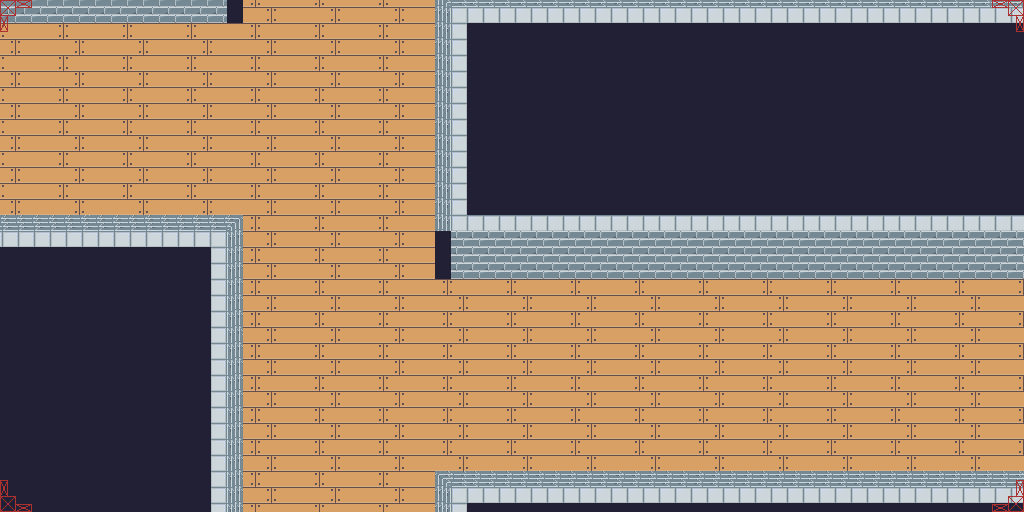
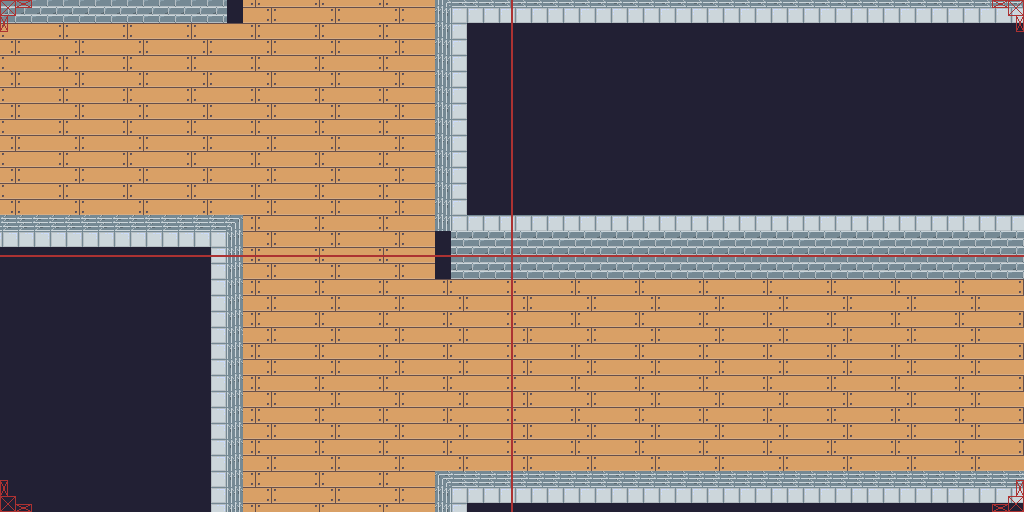
Fixed canvas mapping of player and background . Added Level 2 map.

diff --git a/The-Elm-Scrolls/index.html b/The-Elm-Scrolls/index.html
@@ -7215,7 +7215,7 @@ var $elm$core$Dict$RBEmpty_elm_builtin = {$: 'RBEmpty_elm_builtin'};
 var $elm$core$Dict$empty = $elm$core$Dict$RBEmpty_elm_builtin;
 var $Zinggi$elm_game_resources$Game$Resources$init = $Zinggi$elm_game_resources$Game$Resources$R($elm$core$Dict$empty);
 var $author$project$Game$Idle = {$: 'Idle'};
-var $author$project$Game$initPlayer = {dir: $author$project$Game$Idle, vx: 0, vy: 0, x: 0, y: 0};
+var $author$project$Game$initPlayer = {dir: $author$project$Game$Idle, vx: 0, vy: 0, x: 53, y: 9};
 var $Zinggi$elm_game_resources$Game$Resources$LoadedTexture = F2(
 	function (a, b) {
 		return {$: 'LoadedTexture', a: a, b: b};
@@ -7292,13 +7292,13 @@ var $Zinggi$elm_game_resources$Game$Resources$loadTextures = function (urls) {
 };
 var $elm$core$Platform$Cmd$map = _Platform_map;
 var $author$project$Game$texturesList = _List_fromArray(
-	['assets/playerIdle.png', 'assets/playerRight.png', 'assets/playerLeft.png', 'assets/playerUp.png', 'assets/playerDown.png', 'assets/sceneTest1024_512.png']);
+	['assets/player/playerIdle.png', 'assets/player/playerRight.png', 'assets/player/playerLeft.png', 'assets/player/playerUp.png', 'assets/player/playerDown.png', 'assets/sceneTest1024_512.png', 'assets/level/level_2.png']);
 var $author$project$Game$init = function (navKey) {
 	return _Utils_Tuple2(
 		{
 			camera: A2(
 				$Zinggi$elm_2d_game$Game$TwoD$Camera$fixedArea,
-				16 * 8,
+				32 * 16,
 				_Utils_Tuple2(0, 0)),
 			keys: _List_Nil,
 			navKey: navKey,
@@ -10073,9 +10073,9 @@ var $author$project$Game$renderBackground = function (resources) {
 		[
 			$Zinggi$elm_2d_game$Game$TwoD$Render$spriteZ(
 			{
-				position: _Utils_Tuple3(-1, -1, -0.9),
-				size: _Utils_Tuple2(16, 8),
-				texture: A2($Zinggi$elm_game_resources$Game$Resources$getTexture, 'assets/sceneTest1024_512.png', resources)
+				position: _Utils_Tuple3(0, 0, -0.9),
+				size: _Utils_Tuple2(128, 128),
+				texture: A2($Zinggi$elm_game_resources$Game$Resources$getTexture, 'assets/level/level_2.png', resources)
 			})
 		]);
 };
@@ -10135,19 +10135,19 @@ var $author$project$Game$renderPlayer = F2(
 				pivot: _Utils_Tuple2(0, 0),
 				position: _Utils_Tuple3(x, y, 0),
 				rotation: 0,
-				size: _Utils_Tuple2(0.5, 1),
+				size: _Utils_Tuple2(1, 2),
 				texture: function () {
 					switch (dir.$) {
 						case 'Left':
-							return A2($Zinggi$elm_game_resources$Game$Resources$getTexture, 'assets/playerLeft.png', resources);
+							return A2($Zinggi$elm_game_resources$Game$Resources$getTexture, 'assets/player/playerLeft.png', resources);
 						case 'Right':
-							return A2($Zinggi$elm_game_resources$Game$Resources$getTexture, 'assets/playerRight.png', resources);
+							return A2($Zinggi$elm_game_resources$Game$Resources$getTexture, 'assets/player/playerRight.png', resources);
 						case 'Up':
-							return A2($Zinggi$elm_game_resources$Game$Resources$getTexture, 'assets/playerUp.png', resources);
+							return A2($Zinggi$elm_game_resources$Game$Resources$getTexture, 'assets/player/playerUp.png', resources);
 						case 'Down':
-							return A2($Zinggi$elm_game_resources$Game$Resources$getTexture, 'assets/playerDown.png', resources);
+							return A2($Zinggi$elm_game_resources$Game$Resources$getTexture, 'assets/player/playerDown.png', resources);
 						default:
-							return A2($Zinggi$elm_game_resources$Game$Resources$getTexture, 'assets/playerIdle.png', resources);
+							return A2($Zinggi$elm_game_resources$Game$Resources$getTexture, 'assets/player/playerIdle.png', resources);
 					}
 				}(),
 				topRight: _Utils_Tuple2(1, 1)
@@ -10275,7 +10275,8 @@ var $author$project$Game$view = function (model) {
 						[
 							A2($elm$html$Html$Attributes$style, 'position', 'absolute'),
 							A2($elm$html$Html$Attributes$style, 'left', '448px'),
-							A2($elm$html$Html$Attributes$style, 'top', '228px')
+							A2($elm$html$Html$Attributes$style, 'top', '228px'),
+							A2($elm$html$Html$Attributes$style, 'border', 'solid 1px #FFF')
 						]),
 					{camera: model.camera, size: screen, time: time},
 					$author$project$Game$render(model))
